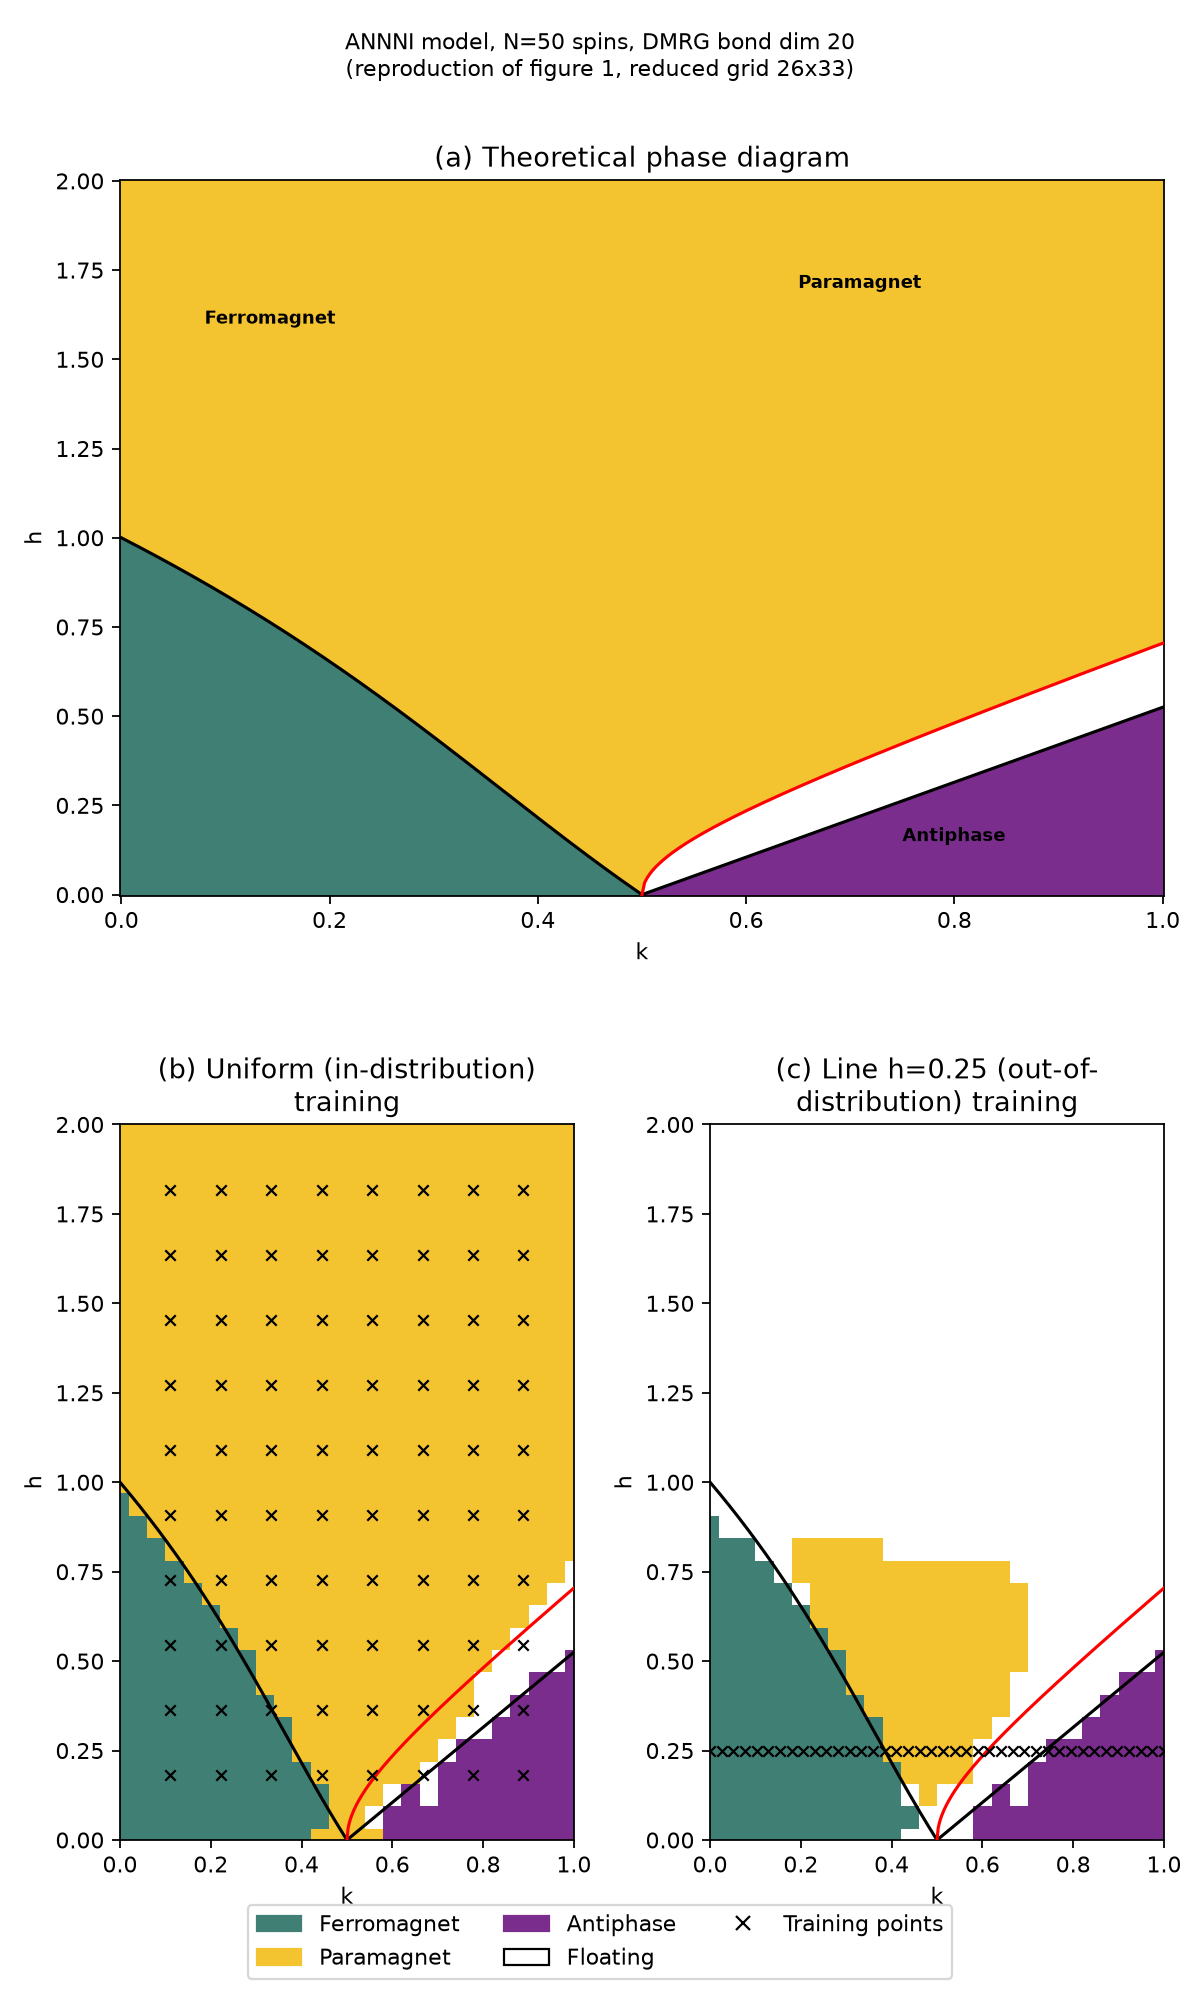
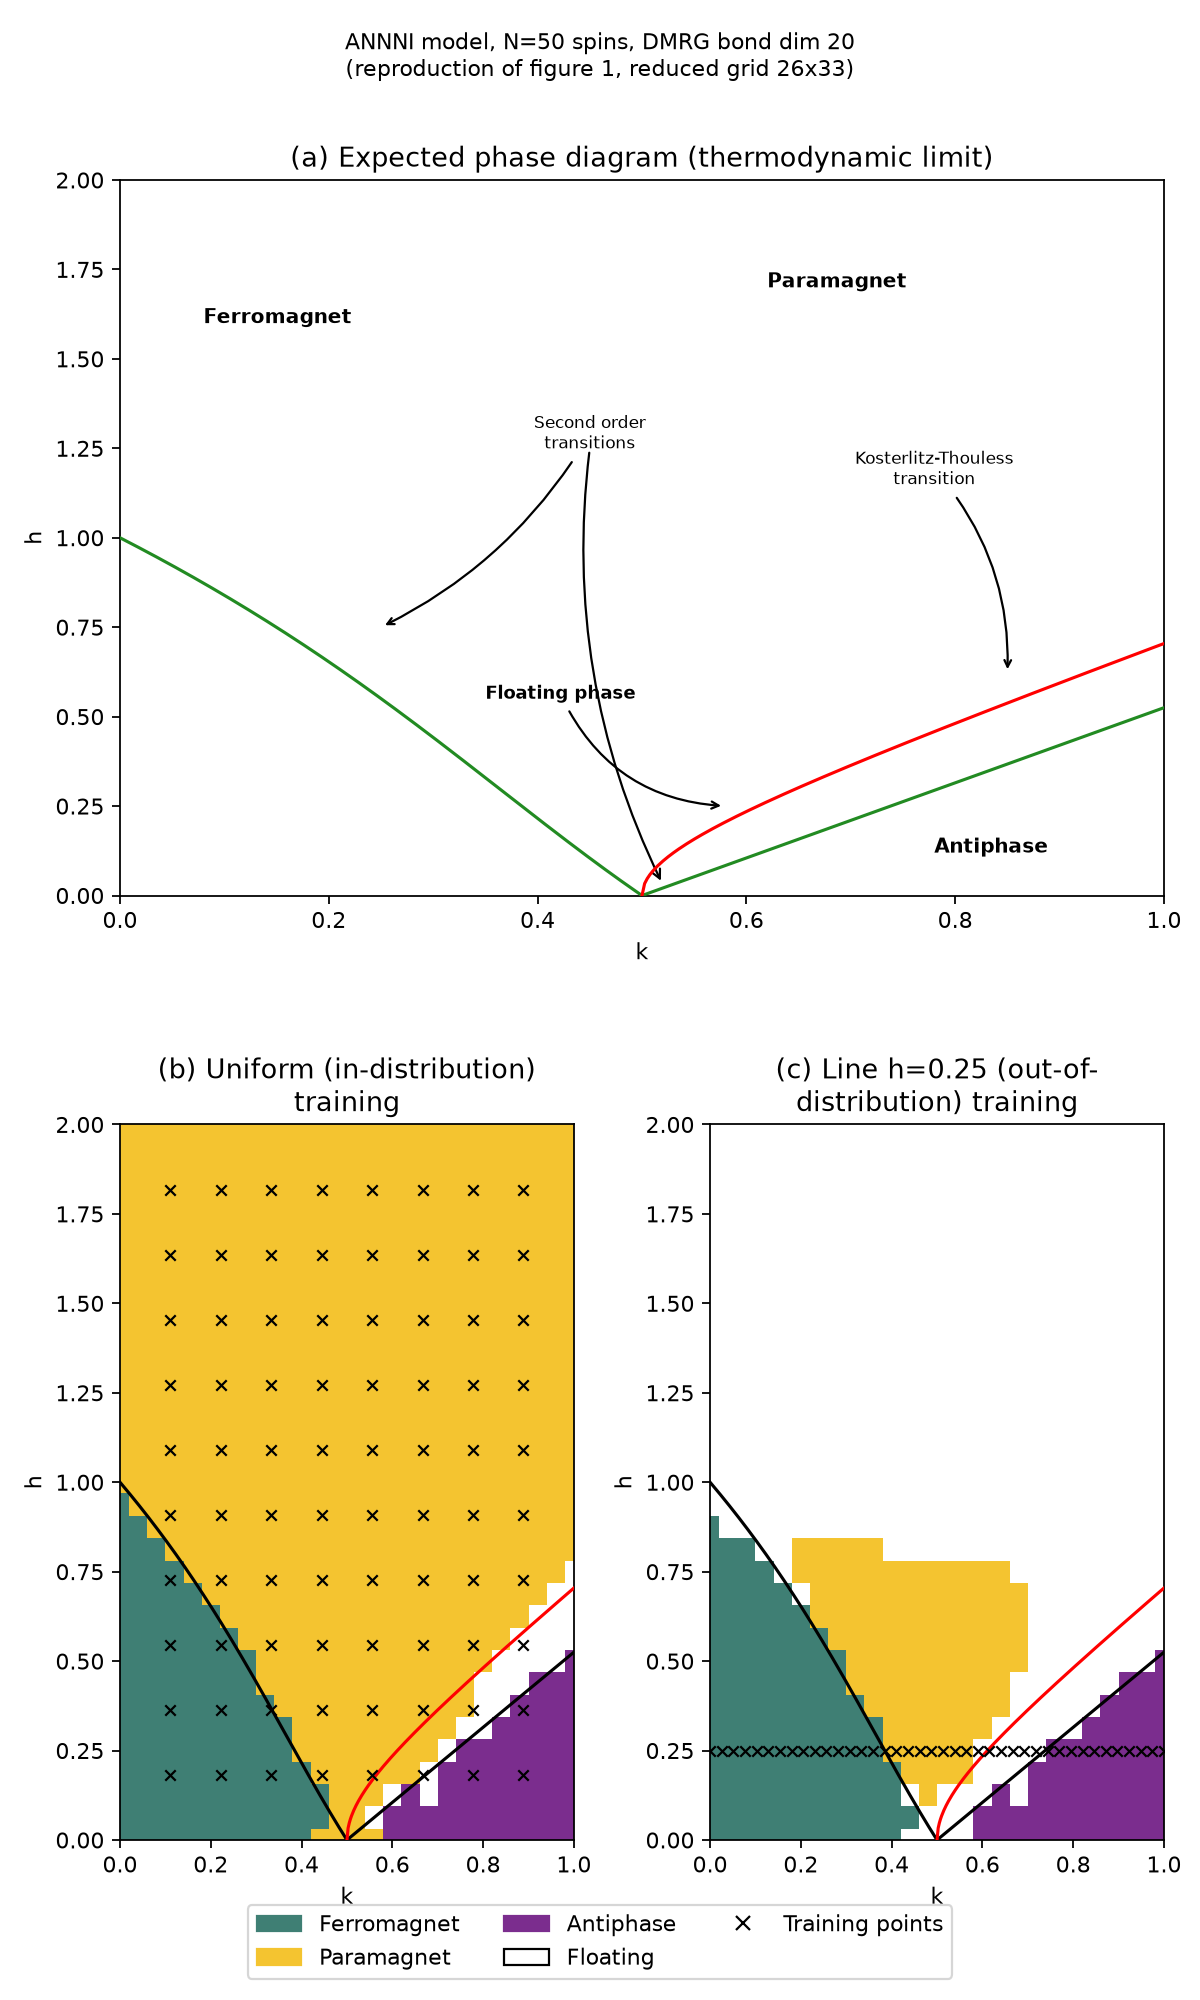
Fix panel (a) of figure 1: match paper's unfilled schematic style
In the published figure, panel (a) is a plain white-background schematic
(just the transition-line curves and bold phase-name labels), while only
panels (b)/(c) are filled with solid colors (since those come from actual
per-grid-point classifier predictions). The previous version incorrectly
filled panel (a) with the same solid colors as (b)/(c) -- e.g. painting the
paramagnet region solid yellow where the paper shows plain white background.
Removed the fill, switched the transition-line colors to green/red (matching
the paper), and added the floating-phase/transition-type annotation arrows.

diff --git a/scripts/fig1_plot.py b/scripts/fig1_plot.py
@@ -20,8 +20,7 @@ from matplotlib.lines import Line2D
 
 sys.path.insert(0, str(Path(__file__).resolve().parents[1]))
 
-from qpom.annni_phase import (AP, FERRO, FLOATING, PARA, h_AP, h_I, h_KT,
-                               phase_label_grid)
+from qpom.annni_phase import AP, FERRO, FLOATING, PARA, h_AP, h_I, h_KT
 from qpom.svm import KernelSVM
 
 DATA_DIR = Path(__file__).resolve().parents[1] / "data"
@@ -32,28 +31,54 @@ PHASE_COLORS = {FERRO: "#3f7f74", PARA: "#f4c430", AP: "#7b2d8e", FLOATING: "#ff
 CMAP = ListedColormap([PHASE_COLORS[i] for i in range(4)])
 
 
-def draw_transition_lines(ax, k_range=(0.0, 1.0)):
+def draw_transition_lines(ax, k_range=(0.0, 1.0), color_normal="black", color_kt="red"):
     k1 = np.linspace(max(k_range[0], 1e-4), 0.5, 200)
-    ax.plot(k1, h_I(k1), color="black", lw=1.4, zorder=5)
+    ax.plot(k1, h_I(k1), color=color_normal, lw=1.4, zorder=5)
     k2 = np.linspace(0.5, k_range[1], 200)
-    ax.plot(k2, h_AP(k2), color="black", lw=1.4, zorder=5)
-    ax.plot(k2, h_KT(k2), color="red", lw=1.4, zorder=5)
+    ax.plot(k2, h_AP(k2), color=color_normal, lw=1.4, zorder=5)
+    ax.plot(k2, h_KT(k2), color=color_kt, lw=1.4, zorder=5)
 
 
 def panel_a(ax, k_range, h_range):
-    nk, nh = 400, 400
-    ks = np.linspace(k_range[0], k_range[1], nk)
-    hs = np.linspace(h_range[0], h_range[1], nh)
-    KK, HH = np.meshgrid(ks, hs)
-    labels = phase_label_grid(KK, HH)
-    ax.pcolormesh(ks, hs, labels, cmap=CMAP, vmin=0, vmax=3, shading="auto")
-    draw_transition_lines(ax, k_range)
-    ax.set_title("(a) Theoretical phase diagram")
+    # Unlike panels (b)/(c) -- which show an SVM's predicted phase at every
+    # grid point, so are naturally rendered as filled regions -- panel (a)
+    # in the paper is a *schematic* of the expected phase diagram in the
+    # thermodynamic limit: a plain white background with just the boundary
+    # curves and bold phase-name labels (no color fill at all). The earlier
+    # version of this script incorrectly filled panel (a) with the same
+    # solid colors as (b)/(c), which is why e.g. the paramagnet region
+    # showed up solid yellow here but plain white background in the paper.
+    ax.set_xlim(k_range)
+    ax.set_ylim(h_range)
+    draw_transition_lines(ax, k_range, color_normal="forestgreen", color_kt="red")
+    ax.set_title("(a) Expected phase diagram (thermodynamic limit)")
     ax.set_xlabel("k")
     ax.set_ylabel("h")
-    ax.text(0.08, 1.6, "Ferromagnet", fontsize=8, weight="bold")
-    ax.text(0.65, 1.7, "Paramagnet", fontsize=8, weight="bold")
-    ax.text(0.75, 0.15, "Antiphase", fontsize=8, weight="bold")
+
+    ax.text(0.08, 1.6, "Ferromagnet", fontsize=9, weight="bold")
+    ax.text(0.62, 1.7, "Paramagnet", fontsize=9, weight="bold")
+    ax.text(0.78, 0.12, "Antiphase", fontsize=9, weight="bold")
+
+    # Annotate the floating-phase sliver and the two transition-line types,
+    # mirroring the callouts in the published figure.
+    ax.annotate(
+        "Floating phase", xy=(0.58, 0.25), xytext=(0.35, 0.55), fontsize=8, weight="bold",
+        arrowprops=dict(arrowstyle="->", connectionstyle="arc3,rad=0.3"),
+    )
+    ax.annotate(
+        "Second order\ntransitions", xy=(0.25, 0.75), xytext=(0.45, 1.25), fontsize=7.5,
+        ha="center",
+        arrowprops=dict(arrowstyle="->", connectionstyle="arc3,rad=-0.15"),
+    )
+    ax.annotate(
+        "", xy=(0.52, 0.03), xytext=(0.45, 1.25),
+        arrowprops=dict(arrowstyle="->", connectionstyle="arc3,rad=0.15"),
+    )
+    ax.annotate(
+        "Kosterlitz-Thouless\ntransition", xy=(0.85, 0.62), xytext=(0.78, 1.15), fontsize=7.5,
+        ha="center", color="black",
+        arrowprops=dict(arrowstyle="->", connectionstyle="arc3,rad=-0.2", color="black"),
+    )
 
 
 def predict_grid(K_train, y_train, K_test_train, ks_t, hs_t):
